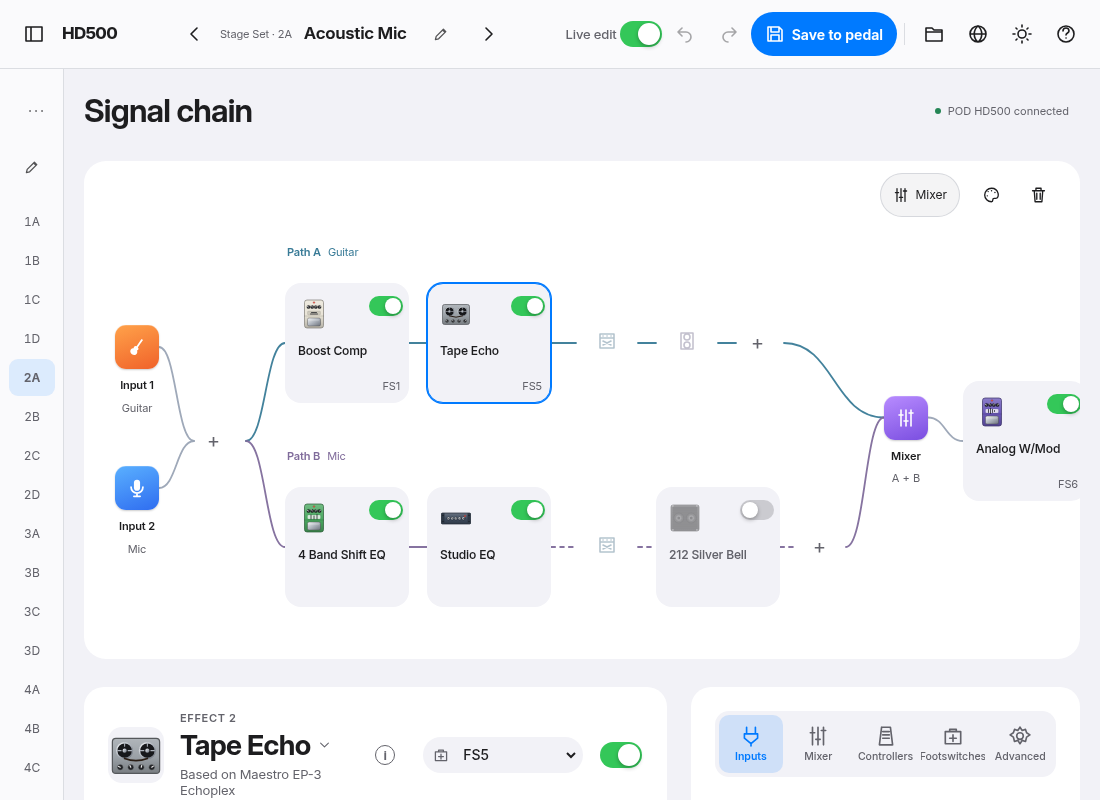
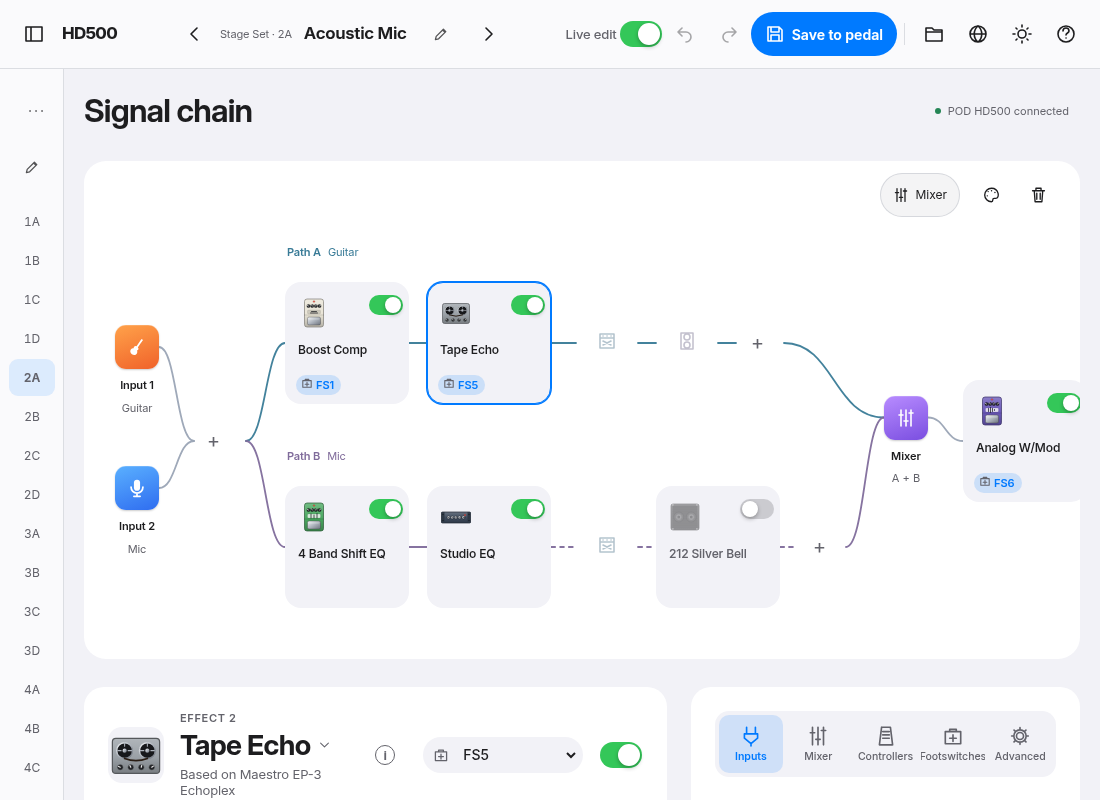
FS/EXP tags on chain blocks; footswitch grid order FS1-4 over FS5-8

diff --git a/app/public/css/app.css b/app/public/css/app.css
@@ -2062,3 +2062,14 @@ main { gap:28px; padding:32px; }
 .tap-btn { min-height:34px; min-width:56px; padding:0 16px; border:0; border-radius:99px; background:color-mix(in srgb,var(--accent) 16%,transparent); color:var(--accent); font:600 15px var(--font-text); cursor:pointer; transition:transform 90ms, background 90ms; }
 .tap-btn:active { transform:scale(.94); background:color-mix(in srgb,var(--accent) 30%,transparent); }
 .ios-group > .row input[type=number] { max-width:70px; font-variant-numeric:tabular-nums; }
+
+/* Footswitch / expression tags on chain blocks */
+.block .fsb { display:none; }
+.block .nm { padding-bottom:30px; }
+.node-tags { position:absolute; left:10px; right:8px; bottom:8px; display:flex; flex-wrap:wrap; gap:4px; }
+.tag { display:inline-flex; align-items:center; gap:3px; height:20px; padding:0 7px 0 5px; border-radius:99px; font:600 11px var(--font-text); letter-spacing:0; white-space:nowrap; }
+.tag .symbol { width:12px; height:12px; stroke-width:1.8; }
+.tag-fs { color:var(--accent); background:color-mix(in srgb,var(--accent) 16%,transparent); }
+.tag-exp { color:#ff9f0a; background:color-mix(in srgb,#ff9f0a 18%,transparent); }
+:root[data-theme=light] .tag-exp { color:#c25e00; }
+.block.off .tag { opacity:.55; }

diff --git a/app/public/js/chain.js b/app/public/js/chain.js
@@ -61,7 +61,9 @@ function Block(it) {
     h('div', { class: 'grp' }, it.kind === 'fx' ? it.empty ? '' : it.group ?? 'Effect' : it.kind === 'amp' ? 'Amp' : 'Cab'),
     it.empty ? null : h('div', { class: 'nm' }, it.model),
     !it.empty ? h('button', { class: `led ${it.active ? 'on' : ''}`, role:'switch', 'aria-checked':String(it.active), 'aria-label':`${it.model}: bypass`, title:'Toggle (bypass)',onDblclick:e=>e.stopPropagation(),onClick:e=>{ e.stopPropagation(); toggle(current()); } }) : null,
-    it.fs && !it.empty ? h('span', {class:'fsb',dataset:{fs:it.fs}},S.cat.fs[it.fs]) : null);
+    it.empty ? null : h('div', { class: 'node-tags' },
+      it.fs ? h('span', { class: 'tag tag-fs', dataset: { fs: it.fs }, title: 'Footswitch' }, icon('footswitch'), S.cat.fs[it.fs]) : null,
+      ...[...new Set(it.params.filter(q => q.ctl).map(q => q.ctl))].map(c => h('span', { class: 'tag tag-exp', title: 'Expression pedal controller' }, icon('expression'), S.cat.ctl[c] ?? `EXP ${c}`))));
   return el;
 }
 function Lane(key, label, ids) {

diff --git a/app/public/js/panels.js b/app/public/js/panels.js
@@ -121,7 +121,7 @@ export function renderFootswitches(root) {
   };
   root.replaceChildren(
     h('p', { class: 'dim', style: { fontSize: '12px', margin: '0 0 10px' } }, 'Each footswitch toggles its assigned blocks. Step on the pedal and the block lights up here.'),
-    h('div', { class: 'fsgrid' }, [5, 6, 7, 8, 1, 2, 3, 4].map(tile), tile(9)),
+    h('div', { class: 'fsgrid' }, [1, 2, 3, 4, 5, 6, 7, 8].map(tile), tile(9)),
     its.some(i => !i.fs) ? h('p', { class: 'dim', style: { fontSize: '12px' } }, 'No footswitch: ' + its.filter(i => !i.fs).map(i => i.model).join(', ')) : null);
 }
 export function flashFs(fs) {

diff --git a/CHANGELOG.md b/CHANGELOG.md
@@ -1,6 +1,7 @@
 # Changelog
 
 ## 0.2.9
+- Chain blocks show clear footswitch (FS) and expression-pedal (EXP) tags; the footswitch panel is ordered FS1–FS4 over FS5–FS8 like the official editor.
 - Tap tempo: a Tap button (or the T key) in the Inputs tab sets the preset tempo from your taps (average of the last intervals) and sends it to the pedal live; tempo changed on the pedal updates the editor.
 - Cleaner gear icon for the Advanced tab.
 - Fix: importing (.h5e), copying, moving, swapping or clearing onto the preset currently open now reloads the editor; before, the screen kept showing the old preset.
